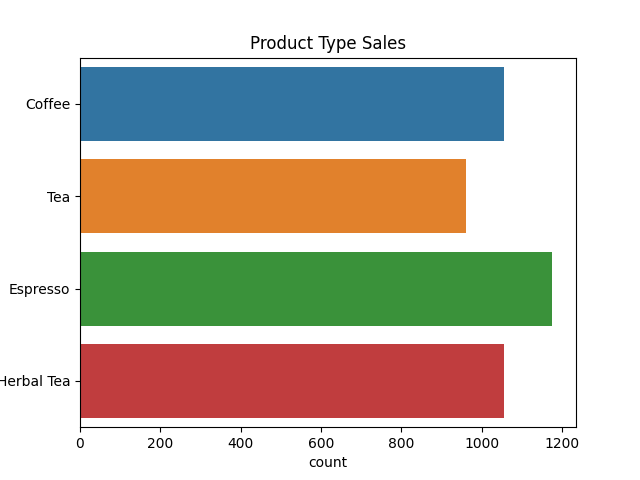
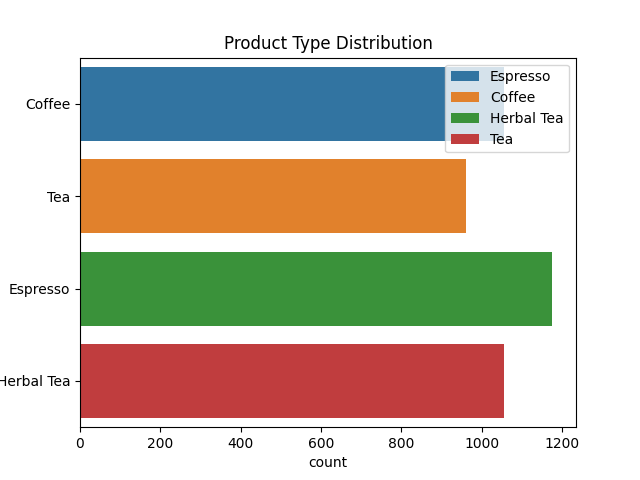
analysis done

Changed region(s): [[0.6875, 0.125, 0.875, 0.3125], [0.3438, 0.0625, 0.6875, 0.125]]

diff --git a/big_data_analysis/sales_analysis.py b/big_data_analysis/sales_analysis.py
@@ -14,76 +14,85 @@ Save the results to a new file called sales_summary.txt.
 Print the insights in a user-friendly format.
 """
 
-
 import pandas as pd
 import matplotlib.pyplot as plt
+import numpy as np
 import seaborn as sns
-data_df = pd.read_csv("./data/sales.csv")
+
+data_df = pd.read_csv('./data/sales.csv')
 print(data_df)
 
-# for item in data_df.columns:
-#     print(item)
 
 
-# DATA PREPROCESSING
-# print(data_df.isna().sum()) # no null values
+# data preprocessing
+# print(data_df.isna().sum()) # no null things
 
-# print(data_df.info())
+# print(data_df.columns)
+# print(data_df.info()) 
+data_df['Date'] = data_df['Date'].replace('.00:00:00', "", regex=True)
 
 
+# total revenue
+total_revenue = data_df['Sales'].sum()
+print(f'Total Sales are : {total_revenue}')
 
-# get statistics
+# Find the best-selling product (based on Quantity So
+highest_selling_day_product = data_df[data_df['Sales'] == data_df['Sales'].max()]
+print(highest_selling_day_product)
 
-#  get number of products being sold
-print(data_df["Product Type"].value_counts())
 
-print(len(data_df["Product Type"]))
+highest_selling_product = highest_selling_day_product['Product Type']
+highest_product = highest_selling_day_product['Product Type']
+print(type(highest_product))
+highest_product = highest_product.unique()
+highest_product = np.array2string(highest_product)
+highest_product = highest_product.strip('[]')
 
-print(data_df["Product Type"].isna())
-sns.countplot(y=data_df["Product Type"], data=data_df, hue='Product Type')
-plt.title('Product Type Sales')
-# plt.savefig('product_type_value_counts_bar_chart.png')
+print(f'The highest selling product is {highest_product}')
 
+
+# Identify the day with the highest sales
+# print(data_df['Date'])
+
+print(highest_selling_day_product['Date'])
+
+
+# visualization(EDA)
+# provide visualization for the product Type
+product_value_counts = data_df['Product Type'].value_counts() # returns index and counts series
+print(product_value_counts)
+
+# data_df['Product Type'].value_counts().plot(kind='bar')
 # plt.show()
 
-# plotting using pie chart
-product_value_counts = data_df["Product Type"].value_counts()
-print(product_value_counts.index) # list
-print(product_value_counts.values) # list
+sns.countplot(data=data_df, y=data_df['Product Type'], orient='x', hue='Product Type')
+plt.title('Product Type Distribution')
+plt.legend(product_value_counts.index)
+plt.savefig("./product_type_value_counts_bar_chart.png")
+plt.show()
 
 
-fig, ax = plt.subplots(figsize=(8,10))
-ax.pie(
-    product_value_counts.values,
-    labels=product_value_counts.index,
-    autopct="%1.1f%%"
-)
-ax.axis('equal')
-ax.set_title('Product Type Purchase Sales')
-plt.legend(product_value_counts.index, loc='upper right')
-# plt.savefig('product_type_value_counts_pie_chart.png')
-# plt.show()
+# pie chart
+plt.figure(figsize=(8,8))
+plt.pie(x=product_value_counts.values, labels=product_value_counts.index, autopct="%1.1f%%")
+plt.title("Product Type Distribution")
+plt.savefig("product_type_value_counts_pie_chart.png")
+plt.show()
+
+print(type(product_value_counts.index))
+print(type(product_value_counts.values))
 
 
-# highest selling product
-sales_sum = data_df['Sales'].sum()
-print(f'The total value of sales is : {sales_sum}') 
 
 
-# get highest sales
-max_sales_row = data_df[data_df['Sales'] == data_df['Sales'].max()]
-print(max_sales_row) # 2 max rows
-
-# print(max_sales_row['Product Type'].unique())
-
-highest_selling_product = max_sales_row['Product Type'].unique()
-print(f'Item in highest_selling_product is {highest_selling_product}')
-
+# save the results to a new file:
 try:
     with open('sales_summary.txt', 'w') as file:
-        highest_selling_product_row = max_sales_row.to_string()
-        file.write(f"the higest selling product is : {highest_selling_product} \n" 
-                   f"The data for the highest selling product is:\n {highest_selling_product_row}"
-        ) 
+        max_row = highest_selling_day_product.to_string()
+        file.write(
+            f"Highest Selling Day is : \n{max_row}\n"
+            f"Product with the highest sales is {highest_product}\n"
+            f"The day with the most sales is : {highest_selling_day_product['Date']}"
+        )
 except Exception as e:
-    print(f"ERROR : {e}")
+    print(f'Error ! : {e}')
